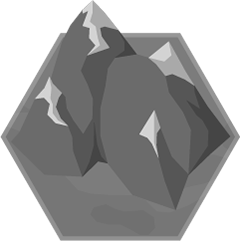
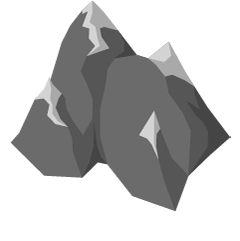
new mountains and trees

diff --git a/js/pixi.js b/js/pixi.js
@@ -59,6 +59,7 @@ loader
 		{name:'tile_bamboo_1', url:'img/tile_bamboo_1.png'},
 		{name:'tile_bamboo_2', url:'img/tile_bamboo_2.png'},
 		{name:'tile_bamboo_3', url:'img/tile_bamboo_3.png'},
+		{name:'tile_forest_base', url:'img/tile_forest_base.png'},
 		{name:'tile_forest_1', url:'img/tile_forest_1.png'},
 		{name:'tile_forest_2', url:'img/tile_forest_2.png'},
 		{name:'tile_forest_3', url:'img/tile_forest_3.png'},
@@ -71,6 +72,7 @@ loader
 		{name:'tile_hill_1', url:'img/tile_hill_1.png'},
 		{name:'tile_hill_2', url:'img/tile_hill_2.png'},
 		{name:'tile_hill_3', url:'img/tile_hill_3.png'},
+		{name:'tile_mountain_base', url:'img/tile_mountain_base.png'},
 		{name:'tile_mountain_1', url:'img/tile_mountain_1.png'},
 		{name:'tile_mountain_2', url:'img/tile_mountain_2.png'},
 		{name:'tile_mountain_3', url:'img/tile_mountain_3.png'},
@@ -1521,6 +1523,7 @@ function createTile(item, itemIndex){
 			break;
 		case 5:
 			mapTile = new PIXI.Sprite(resources['tile_forest_' + randTile].texture);
+			mapBase = new PIXI.Sprite(resources['tile_forest_base'].texture);
 			// mapTile = new PIXI.Sprite(resources['tile_forest_4'].texture);
 			break;
 		case 6:
@@ -1529,6 +1532,7 @@ function createTile(item, itemIndex){
 			break;
 		case 7:
 			mapTile = new PIXI.Sprite(resources['tile_mountain_' + randTile].texture);
+			mapBase = new PIXI.Sprite(resources['tile_mountain_base'].texture);
 			// ifMountain = true;
 			break;
 		case 8:
@@ -1561,7 +1565,7 @@ function createTile(item, itemIndex){
 		default:
 			statusEffectIcon = new PIXI.Sprite(resources.tile_black.texture);	
 	}
-	if(item.id == 1 || item.id == 2 || item.id == 3 || item.id == 6){
+	if(item.id == 1 || item.id == 2 || item.id == 3 || item.id == 5 || item.id == 6 || item.id == 7){
 		mapBase.scale.set(sizeScale);
 		mapBase.anchor.set(0,1);
 		tileImage.addChild(mapBase);
